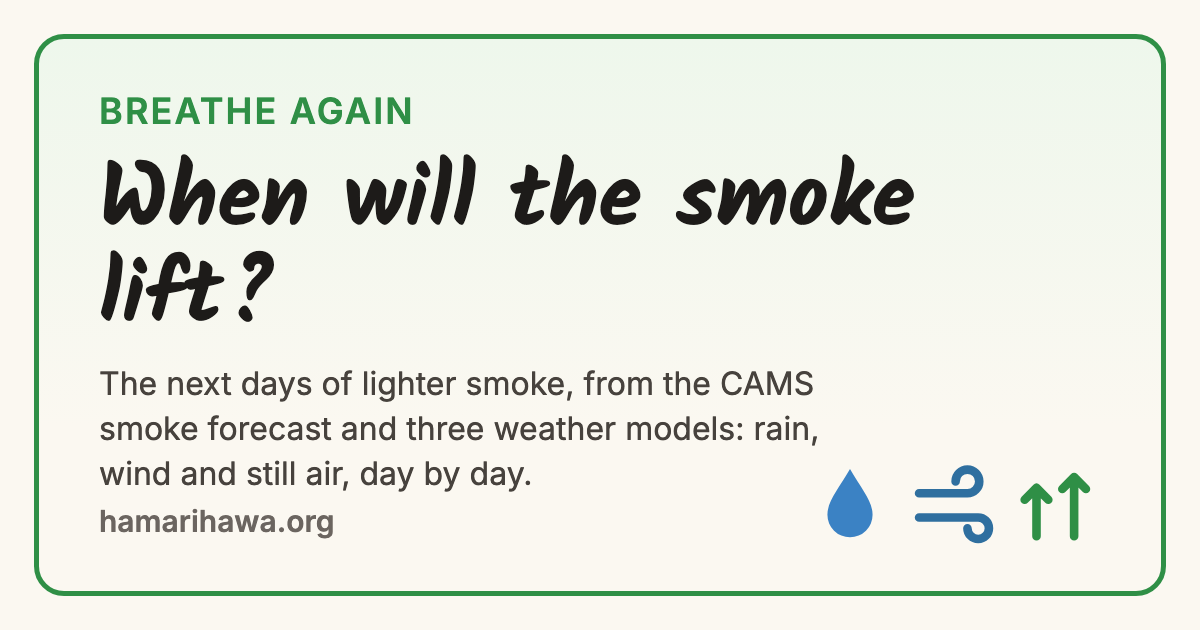
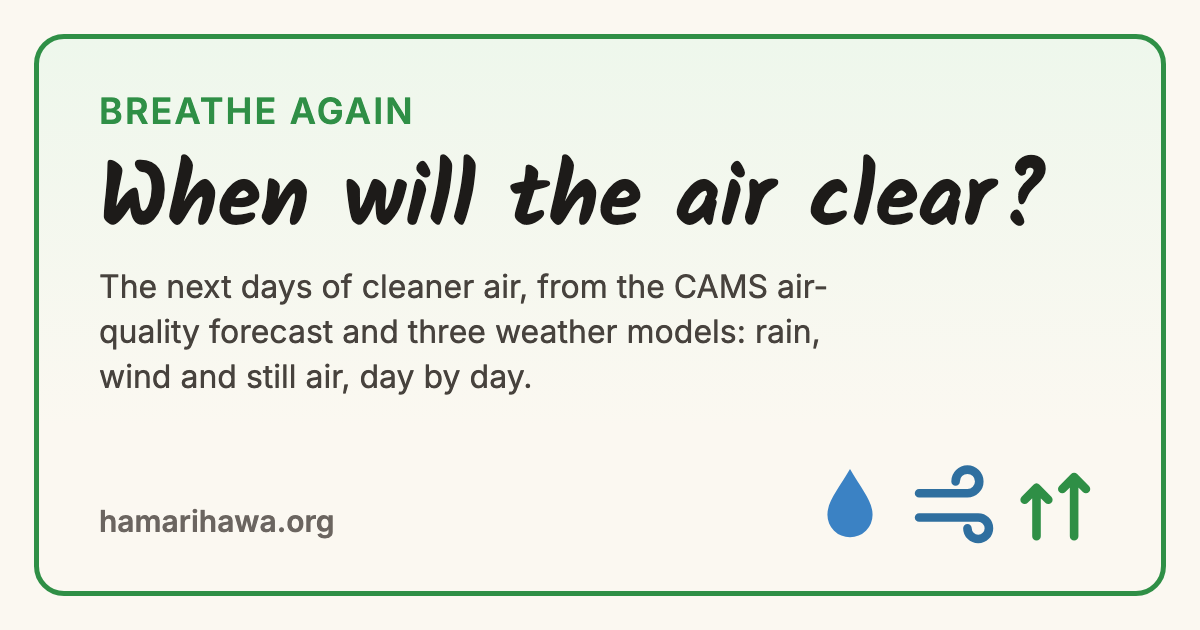
Breathe again: neutral air-quality wording, like a weather forecast
The page above already answers where the smoke comes from; the widget is a
forecast for the air, so its words now hold in every city and season:
pollution / air quality (آلودگی، فضائی معیار; प्रदूषण, वायु गुणवत्ता) instead of
smoke, "Already fairly clean" instead of "Already light". Dust and still-air
lines keep their specific words. Share-link previews and pictures to match
(?v=3).

diff --git a/site/public/breathe.js b/site/public/breathe.js
@@ -1,7 +1,8 @@
 // "Breathe again" on a city page (/air/<city>/; markup in site/src/citypage.js): when the air should next get
 // lighter, for the next 10 days. Smog cities rarely reach safe air, but rain, strong wind and a deep, breezy
-// afternoon mixing layer give them a day or two of lighter smoke; this finds the next such break. "Smoke" in the wording is the whole of CAMS's PM2.5
-// (fires, traffic, industry, kilns, dust), so it keeps working after the burning season, all winter.
+// afternoon mixing layer give them a day or two of cleaner air; this finds the next such break. It reads like a weather forecast for air quality, so its
+// words are neutral (pollution, air quality), right for every city and season: the page above it answers
+// where the smoke comes from. The numbers are all of CAMS's PM2.5 (fires, traffic, industry, kilns, dust).
 //
 // Two sources, both requested from the visitor's browser (the Worker never calls Open-Meteo):
 // - Smoke: the Copernicus CAMS PM2.5 forecast (about 4 days ahead). CAMS reads low in winter, so a day is
@@ -35,69 +36,69 @@
   const T = {
     en: {
       wait: "Reading the weather models…", fail: "The forecast could not be loaded just now.",
-      now: "Today", tomorrow: "Tomorrow", inDays: (d) => `In ${d} days`, maybe: (d) => (d === 1 ? "Maybe tomorrow" : `Maybe in ${d} days`), none: "Not in the next 10 days", light: "Already light",
+      now: "Today", tomorrow: "Tomorrow", inDays: (d) => `In ${d} days`, maybe: (d) => (d === 1 ? "Maybe tomorrow" : `Maybe in ${d} days`), none: "Not in the next 10 days", light: "Already fairly clean",
       today: "Today", tmw: "Tomorrow", and: (a, b) => `${a} and ${b.replace(/^Tomorrow/, "tomorrow")}`, to: (a, b) => `${a} to ${b.replace(/^Tomorrow/, "tomorrow")}`,
-      less: (p) => `about ${p}% less smoke than the past 7 days`, half: "about half the smoke of the past 7 days",
+      less: (p) => `about ${p}% less pollution than the past 7 days`, half: "about half the pollution of the past 7 days",
       spanLess: (s, x) => `${s}: ${x}.`, spanMaybe: (s) => `${s} could bring lighter air.`,
-      why: { rain: (m, n, mm) => `Rain in ${m} of ${n} weather models, about ${mm} mm.`, wind: (k) => `Wind up to ${k} km/h.`, mix: "Breezy afternoons lift and spread the smoke.", none: "The smoke model expects it; the weather shows no single clear cause." },
-      back: (d) => `Smoke starts building up again from ${d}.`, still: (d) => `Still air from ${d} may trap smoke near the ground.`,
-      maybeNote: "This is past the smoke forecast's 4 days, so it comes from the weather alone and is less certain.",
-      noneWhy: "No weather model shows rain or strong wind for the next 10 days.", lighterOnly: (d) => `${d} should be a little lighter, but not a real break.`, noneStill: (d) => `Still air from ${d} may trap smoke near the ground.`,
-      lightTxt: (N) => `The smoke model has kept ${N}'s air fairly light this past week.`,
-      legend: { brk: "break", lighter: "a little lighter", same: "about the same", worse: "smokier", base: "past 7 days" },
-      airLbl: "Smoke forecast", wxLbl: "Weather only",
-      outlook: (parts) => `After that, from the weather alone: ${parts.join("; ")}.`, outlook0: (parts) => `Past the smoke forecast, from the weather alone: ${parts.join("; ")}.`, later: (list) => `Another possible break: ${list}.`,
-      ol: { dust: (s) => `${s}, strong dry wind may raise dust`, build: (s) => `${s}, still air, so smoke likely builds up`, flat: (s) => `${s}, about the same`, maybe: (s, c) => `${s}, ${c} may bring lighter air` },
+      why: { rain: (m, n, mm) => `Rain in ${m} of ${n} weather models, about ${mm} mm.`, wind: (k) => `Wind up to ${k} km/h.`, mix: "Breezy afternoons lift and spread the pollution.", none: "The air-quality model expects it; the weather shows no single clear cause." },
+      back: (d) => `Pollution starts building up again from ${d}.`, still: (d) => `Still air from ${d} may trap pollution near the ground.`,
+      maybeNote: "This is past the air-quality forecast's 4 days, so it comes from the weather alone and is less certain.",
+      noneWhy: "No weather model shows rain or strong wind for the next 10 days.", lighterOnly: (d) => `${d} should be a little lighter, but not a real break.`, noneStill: (d) => `Still air from ${d} may trap pollution near the ground.`,
+      lightTxt: (N) => `The air-quality model has kept ${N}'s pollution fairly low this past week.`,
+      legend: { brk: "break", lighter: "a little lighter", same: "about the same", worse: "more polluted", base: "past 7 days" },
+      airLbl: "Air-quality forecast", wxLbl: "Weather only",
+      outlook: (parts) => `After that, from the weather alone: ${parts.join("; ")}.`, outlook0: (parts) => `Past the air-quality forecast, from the weather alone: ${parts.join("; ")}.`, later: (list) => `Another possible break: ${list}.`,
+      ol: { dust: (s) => `${s}, strong dry wind may raise dust`, build: (s) => `${s}, still air, so pollution likely builds up`, flat: (s) => `${s}, about the same`, maybe: (s, c) => `${s}, ${c} may bring lighter air` },
       olCause: { rain: "rain", wind: "strong wind", mix: "breezy afternoons" }, olKey: "outlook from the weather",
       icon: { rain: "rain", wind: "strong wind", mix: "breezy, well mixed", still: "still air", dust: "dusty wind" },
       share: "Share picture", wa: "WhatsApp", copy: "Copy link", copied: "Link copied", saved: "Picture saved",
       q: (N) => `When can ${N} breathe again?`,
-      src: "Smoke: Copernicus CAMS model via Open-Meteo, compared with its own past 7 days (it reads low in winter, so this shows the change, not the level). Weather: ECMWF, GFS and ICON models via Open-Meteo; mixing layer from GFS.",
-      imgSrc: "Smoke: CAMS forecast vs its past 7 days. Weather: ECMWF, GFS, ICON.",
+      src: "Air quality: PM2.5 from the Copernicus CAMS model via Open-Meteo, compared with its own past 7 days (it reads low in winter, so this shows the change, not the level). Weather: ECMWF, GFS and ICON models via Open-Meteo; mixing layer from GFS.",
+      imgSrc: "Air quality (PM2.5): CAMS forecast vs its past 7 days. Weather: ECMWF, GFS, ICON.",
     },
     ur: {
       wait: "موسمی ماڈل دیکھے جا رہے ہیں…", fail: "پیش گوئی اس وقت نہیں مل سکی۔",
-      now: "آج", tomorrow: "کل", inDays: (d) => `${d} دن میں`, maybe: (d) => (d === 1 ? "شاید کل" : `شاید ${d} دن میں`), none: "اگلے 10 دن میں نہیں", light: "ہوا پہلے ہی ہلکی",
+      now: "آج", tomorrow: "کل", inDays: (d) => `${d} دن میں`, maybe: (d) => (d === 1 ? "شاید کل" : `شاید ${d} دن میں`), none: "اگلے 10 دن میں نہیں", light: "ہوا پہلے ہی کافی صاف",
       today: "آج", tmw: "کل", and: (a, b) => `${a} اور ${b}`, to: (a, b) => `${a} سے ${b} تک`,
-      less: (p) => `پچھلے 7 دنوں سے لگ بھگ ${p} فیصد کم دھواں`, half: "پچھلے 7 دنوں کے مقابلے میں لگ بھگ آدھا دھواں",
+      less: (p) => `پچھلے 7 دنوں سے لگ بھگ ${p} فیصد کم آلودگی`, half: "پچھلے 7 دنوں کے مقابلے میں لگ بھگ آدھی آلودگی",
       spanLess: (s, x) => `${s}: ${x}۔`, spanMaybe: (s) => `${s} کو ہوا کچھ ہلکی ہو سکتی ہے۔`,
-      why: { rain: (m, n, mm) => `${n} میں سے ${m} موسمی ماڈل بارش دکھا رہے ہیں، لگ بھگ ${mm} ملی میٹر۔`, wind: (k) => `ہوا ${k} کلومیٹر فی گھنٹہ تک چلے گی۔`, mix: "دوپہر کی ہوا دھوئیں کو اوپر اٹھا کر بکھیر دے گی۔", none: "دھوئیں کا ماڈل یہی بتاتا ہے، اگرچہ موسم میں کوئی ایک واضح وجہ نظر نہیں آتی۔" },
-      back: (d) => `${d} سے دھواں پھر بڑھنے لگے گا۔`, still: (d) => `${d} سے تھمی ہوا دھوئیں کو زمین کے قریب روک سکتی ہے۔`,
-      maybeNote: "یہ دھوئیں کی 4 دن کی پیش گوئی سے آگے ہے، اس لیے صرف موسم کی بنیاد پر ہے اور اتنا یقینی نہیں۔",
-      noneWhy: "اگلے 10 دنوں میں کسی موسمی ماڈل میں نہ بارش ہے نہ تیز ہوا۔", lighterOnly: (d) => `${d} ہوا کچھ ہلکی رہے گی، مگر کوئی خاص مہلت نہیں۔`, noneStill: (d) => `${d} سے تھمی ہوا دھوئیں کو زمین کے قریب روک سکتی ہے۔`,
-      lightTxt: (N) => `دھوئیں کے ماڈل کے مطابق پچھلے ہفتے ${N} کی ہوا کافی ہلکی رہی ہے۔`,
-      legend: { brk: "مہلت", lighter: "کچھ ہلکی", same: "تقریباً ویسی ہی", worse: "زیادہ دھواں", base: "پچھلے 7 دن" },
-      airLbl: "دھوئیں کی پیش گوئی", wxLbl: "صرف موسم",
-      outlook: (parts) => `اس کے بعد، صرف موسم کی بنیاد پر: ${parts.join("؛ ")}۔`, outlook0: (parts) => `دھوئیں کی پیش گوئی سے آگے، صرف موسم کی بنیاد پر: ${parts.join("؛ ")}۔`, later: (list) => `ایک اور ممکنہ مہلت: ${list}۔`,
-      ol: { dust: (s) => `${s} تیز خشک ہوا سے گرد اڑنے کا امکان`, build: (s) => `${s} تھمی ہوا، دھواں بڑھنے کا امکان`, flat: (s) => `${s} تقریباً ویسا ہی`, maybe: (s, c) => `${s} ${c} سے ہوا کچھ ہلکی ہو سکتی ہے` },
+      why: { rain: (m, n, mm) => `${n} میں سے ${m} موسمی ماڈل بارش دکھا رہے ہیں، لگ بھگ ${mm} ملی میٹر۔`, wind: (k) => `ہوا ${k} کلومیٹر فی گھنٹہ تک چلے گی۔`, mix: "دوپہر کی ہوا آلودگی کو اوپر اٹھا کر بکھیر دے گی۔", none: "فضائی معیار کا ماڈل یہی بتاتا ہے، اگرچہ موسم میں کوئی ایک واضح وجہ نظر نہیں آتی۔" },
+      back: (d) => `${d} سے آلودگی پھر بڑھنے لگے گی۔`, still: (d) => `${d} سے تھمی ہوا آلودگی کو زمین کے قریب روک سکتی ہے۔`,
+      maybeNote: "یہ فضائی معیار کی 4 دن کی پیش گوئی سے آگے ہے، اس لیے صرف موسم کی بنیاد پر ہے اور اتنا یقینی نہیں۔",
+      noneWhy: "اگلے 10 دنوں میں کسی موسمی ماڈل میں نہ بارش ہے نہ تیز ہوا۔", lighterOnly: (d) => `${d} ہوا کچھ ہلکی رہے گی، مگر کوئی خاص مہلت نہیں۔`, noneStill: (d) => `${d} سے تھمی ہوا آلودگی کو زمین کے قریب روک سکتی ہے۔`,
+      lightTxt: (N) => `فضائی معیار کے ماڈل کے مطابق پچھلے ہفتے ${N} میں آلودگی کافی کم رہی ہے۔`,
+      legend: { brk: "مہلت", lighter: "کچھ ہلکی", same: "تقریباً ویسی ہی", worse: "زیادہ آلودگی", base: "پچھلے 7 دن" },
+      airLbl: "فضائی معیار کی پیش گوئی", wxLbl: "صرف موسم",
+      outlook: (parts) => `اس کے بعد، صرف موسم کی بنیاد پر: ${parts.join("؛ ")}۔`, outlook0: (parts) => `فضائی معیار کی پیش گوئی سے آگے، صرف موسم کی بنیاد پر: ${parts.join("؛ ")}۔`, later: (list) => `ایک اور ممکنہ مہلت: ${list}۔`,
+      ol: { dust: (s) => `${s} تیز خشک ہوا سے گرد اڑنے کا امکان`, build: (s) => `${s} تھمی ہوا، آلودگی بڑھنے کا امکان`, flat: (s) => `${s} تقریباً ویسا ہی`, maybe: (s, c) => `${s} ${c} سے ہوا کچھ ہلکی ہو سکتی ہے` },
       olCause: { rain: "بارش", wind: "تیز ہوا", mix: "ہوا دار دوپہر" }, olKey: "موسم کی بنیاد پر اندازہ",
       icon: { rain: "بارش", wind: "تیز ہوا", mix: "ہوا دار دوپہر", still: "تھمی ہوا", dust: "گرد آلود ہوا" },
       share: "تصویر شیئر کریں", wa: "واٹس ایپ", copy: "لنک کاپی کریں", copied: "لنک کاپی ہو گیا", saved: "تصویر محفوظ ہو گئی",
       q: (N) => `${N} میں سکھ کا سانس کب ملے گا؟`,
-      src: "دھواں: کوپرنیکس CAMS ماڈل، اوپن میٹیو کے ذریعے، اپنے ہی پچھلے 7 دنوں سے موازنہ (سردیوں میں یہ کم بتاتا ہے، اس لیے یہاں سطح نہیں، تبدیلی دکھائی گئی ہے)۔ موسم: ECMWF، GFS اور ICON ماڈل، اوپن میٹیو کے ذریعے؛ ہوا کی ملاوٹ کی تہہ GFS سے۔",
-      imgSrc: "دھواں: CAMS پیش گوئی، پچھلے 7 دنوں کے مقابلے میں۔ موسم: ECMWF، GFS، ICON۔",
+      src: "فضائی معیار: PM2.5، کوپرنیکس CAMS ماڈل، اوپن میٹیو کے ذریعے، اپنے ہی پچھلے 7 دنوں سے موازنہ (سردیوں میں یہ کم بتاتا ہے، اس لیے یہاں سطح نہیں، تبدیلی دکھائی گئی ہے)۔ موسم: ECMWF، GFS اور ICON ماڈل، اوپن میٹیو کے ذریعے؛ ہوا کی ملاوٹ کی تہہ GFS سے۔",
+      imgSrc: "فضائی معیار (PM2.5): CAMS پیش گوئی، پچھلے 7 دنوں کے مقابلے میں۔ موسم: ECMWF، GFS، ICON۔",
     },
     hi: {
       wait: "मौसम के मॉडल पढ़े जा रहे हैं…", fail: "अनुमान अभी नहीं मिल सका।",
-      now: "आज", tomorrow: "कल", inDays: (d) => `${d} दिन में`, maybe: (d) => (d === 1 ? "शायद कल" : `शायद ${d} दिन में`), none: "अगले 10 दिन में नहीं", light: "हवा पहले से हल्की",
+      now: "आज", tomorrow: "कल", inDays: (d) => `${d} दिन में`, maybe: (d) => (d === 1 ? "शायद कल" : `शायद ${d} दिन में`), none: "अगले 10 दिन में नहीं", light: "हवा पहले से काफ़ी साफ़",
       today: "आज", tmw: "कल", and: (a, b) => `${a} और ${b}`, to: (a, b) => `${a} से ${b} तक`,
-      less: (p) => `पिछले 7 दिनों से लगभग ${p}% कम धुआँ`, half: "पिछले 7 दिनों के मुक़ाबले लगभग आधा धुआँ",
+      less: (p) => `पिछले 7 दिनों से लगभग ${p}% कम प्रदूषण`, half: "पिछले 7 दिनों के मुक़ाबले लगभग आधा प्रदूषण",
       spanLess: (s, x) => `${s}: ${x}।`, spanMaybe: (s) => `${s} को हवा कुछ हल्की हो सकती है।`,
-      why: { rain: (m, n, mm) => `${n} में से ${m} मौसम मॉडल बारिश दिखा रहे हैं, लगभग ${mm} मिमी।`, wind: (k) => `हवा ${k} किमी/घंटा तक चलेगी।`, mix: "दोपहर की हवा धुएँ को ऊपर उठाकर बिखेर देगी।", none: "धुएँ का मॉडल यही बताता है, हालाँकि मौसम में कोई एक साफ़ वजह नहीं दिखती।" },
-      back: (d) => `${d} से धुआँ फिर बढ़ने लगेगा।`, still: (d) => `${d} से थमी हवा धुएँ को ज़मीन के पास रोक सकती है।`,
-      maybeNote: "यह धुएँ के 4 दिन के अनुमान से आगे है, इसलिए सिर्फ़ मौसम पर आधारित है और उतना पक्का नहीं।",
-      noneWhy: "अगले 10 दिनों में किसी मौसम मॉडल में न बारिश है न तेज़ हवा।", lighterOnly: (d) => `${d} हवा कुछ हल्की रहेगी, पर कोई ख़ास राहत नहीं।`, noneStill: (d) => `${d} से थमी हवा धुएँ को ज़मीन के पास रोक सकती है।`,
-      lightTxt: (N) => `धुएँ के मॉडल के मुताबिक़ पिछले हफ़्ते ${N} की हवा काफ़ी हल्की रही है।`,
-      legend: { brk: "राहत", lighter: "कुछ हल्की", same: "लगभग वैसी ही", worse: "ज़्यादा धुआँ", base: "पिछले 7 दिन" },
-      airLbl: "धुएँ का अनुमान", wxLbl: "सिर्फ़ मौसम",
-      outlook: (parts) => `उसके बाद, सिर्फ़ मौसम के आधार पर: ${parts.join("; ")}।`, outlook0: (parts) => `धुएँ के अनुमान से आगे, सिर्फ़ मौसम के आधार पर: ${parts.join("; ")}।`, later: (list) => `एक और संभावित राहत: ${list}।`,
-      ol: { dust: (s) => `${s} तेज़ सूखी हवा से धूल उड़ने की आशंका`, build: (s) => `${s} थमी हवा, धुआँ बढ़ने की आशंका`, flat: (s) => `${s} लगभग वैसा ही`, maybe: (s, c) => `${s} ${c} से हवा कुछ हल्की हो सकती है` },
+      why: { rain: (m, n, mm) => `${n} में से ${m} मौसम मॉडल बारिश दिखा रहे हैं, लगभग ${mm} मिमी।`, wind: (k) => `हवा ${k} किमी/घंटा तक चलेगी।`, mix: "दोपहर की हवा प्रदूषण को ऊपर उठाकर बिखेर देगी।", none: "वायु गुणवत्ता का मॉडल यही बताता है, हालाँकि मौसम में कोई एक साफ़ वजह नहीं दिखती।" },
+      back: (d) => `${d} से प्रदूषण फिर बढ़ने लगेगा।`, still: (d) => `${d} से थमी हवा प्रदूषण को ज़मीन के पास रोक सकती है।`,
+      maybeNote: "यह वायु गुणवत्ता के 4 दिन के अनुमान से आगे है, इसलिए सिर्फ़ मौसम पर आधारित है और उतना पक्का नहीं।",
+      noneWhy: "अगले 10 दिनों में किसी मौसम मॉडल में न बारिश है न तेज़ हवा।", lighterOnly: (d) => `${d} हवा कुछ हल्की रहेगी, पर कोई ख़ास राहत नहीं।`, noneStill: (d) => `${d} से थमी हवा प्रदूषण को ज़मीन के पास रोक सकती है।`,
+      lightTxt: (N) => `वायु गुणवत्ता के मॉडल के मुताबिक़ पिछले हफ़्ते ${N} में प्रदूषण काफ़ी कम रहा है।`,
+      legend: { brk: "राहत", lighter: "कुछ हल्की", same: "लगभग वैसी ही", worse: "ज़्यादा प्रदूषण", base: "पिछले 7 दिन" },
+      airLbl: "वायु गुणवत्ता का अनुमान", wxLbl: "सिर्फ़ मौसम",
+      outlook: (parts) => `उसके बाद, सिर्फ़ मौसम के आधार पर: ${parts.join("; ")}।`, outlook0: (parts) => `वायु गुणवत्ता के अनुमान से आगे, सिर्फ़ मौसम के आधार पर: ${parts.join("; ")}।`, later: (list) => `एक और संभावित राहत: ${list}।`,
+      ol: { dust: (s) => `${s} तेज़ सूखी हवा से धूल उड़ने की आशंका`, build: (s) => `${s} थमी हवा, प्रदूषण बढ़ने की आशंका`, flat: (s) => `${s} लगभग वैसा ही`, maybe: (s, c) => `${s} ${c} से हवा कुछ हल्की हो सकती है` },
       olCause: { rain: "बारिश", wind: "तेज़ हवा", mix: "हवादार दोपहर" }, olKey: "मौसम के आधार पर अंदाज़ा",
       icon: { rain: "बारिश", wind: "तेज़ हवा", mix: "हवादार दोपहर", still: "थमी हवा", dust: "धूल भरी हवा" },
       share: "तस्वीर शेयर करें", wa: "व्हाट्सऐप", copy: "लिंक कॉपी करें", copied: "लिंक कॉपी हो गया", saved: "तस्वीर सेव हो गई",
       q: (N) => `${N} में चैन की साँस कब मिलेगी?`,
-      src: "धुआँ: कोपरनिकस CAMS मॉडल, ओपन-मेटियो से, अपने ही पिछले 7 दिनों से तुलना (सर्दियों में यह कम बताता है, इसलिए यहाँ स्तर नहीं, बदलाव दिखाया गया है)। मौसम: ECMWF, GFS और ICON मॉडल, ओपन-मेटियो से; मिक्सिंग लेयर GFS से।",
-      imgSrc: "धुआँ: CAMS अनुमान, पिछले 7 दिनों के मुक़ाबले। मौसम: ECMWF, GFS, ICON।",
+      src: "वायु गुणवत्ता: PM2.5, कोपरनिकस CAMS मॉडल, ओपन-मेटियो से, अपने ही पिछले 7 दिनों से तुलना (सर्दियों में यह कम बताता है, इसलिए यहाँ स्तर नहीं, बदलाव दिखाया गया है)। मौसम: ECMWF, GFS और ICON मॉडल, ओपन-मेटियो से; मिक्सिंग लेयर GFS से।",
+      imgSrc: "वायु गुणवत्ता (PM2.5): CAMS अनुमान, पिछले 7 दिनों के मुक़ाबले। मौसम: ECMWF, GFS, ICON।",
     },
   };
 
@@ -272,7 +273,7 @@
     const used = [...new Set(f.days.map((d) => d.wx.cause).filter(Boolean))];
     const stUsed = ["brk", "lighter", "same", "worse"].filter((s) => f.days.some((d) => d.air && d.st === s));
     // The share link has its own path, so its preview says the same as this (see breatheMeta in citypage.js):
-    // only numbers go in it, the start day, days, per cent less smoke, and smoke forecast or weather only.
+    // only numbers go in it, the start day, days, per cent less pollution, and air-quality forecast or weather only.
     const run = f.run, qs = new URLSearchParams();
     if (f.light || !run.length) { qs.set("k", f.light ? "l" : "x"); qs.set("d", f.days[0].k); }
     else { qs.set("d", run[0].k); qs.set("n", run.length); if (run[0].air) qs.set("p", ans.p); qs.set("k", run[0].air ? "a" : "w"); }

diff --git a/site/src/citypage.js b/site/src/citypage.js
@@ -636,22 +636,22 @@ const MON = {
 const BT = {
   en: { q: (N) => `When can ${N} breathe again?`, today: "Today", tmw: "tomorrow", Tmw: "Tomorrow",
     and: (a, b) => `${a} and ${b}`, to: (a, b) => `${a} to ${b}`, day: (w, d, m) => `${w} ${d} ${m}`,
-    less: (s, p) => `${s}: ${p >= 45 && p <= 55 ? "about half the smoke of the past 7 days" : `about ${p}% less smoke than the past 7 days`}.`,
-    maybe: (s) => `${s} could bring lighter air.`, none: "Not in the next 10 days.", light: "The air has been fairly light this past week.",
-    desc: "The next days of lighter smoke, from the CAMS smoke forecast and three weather models (ECMWF, GFS, ICON): rain, wind and still air, day by day.",
-    alt: "Breathe again: when the smoke should next lift" },
+    less: (s, p) => `${s}: ${p >= 45 && p <= 55 ? "about half the pollution of the past 7 days" : `about ${p}% less pollution than the past 7 days`}.`,
+    maybe: (s) => `${s} could bring lighter air.`, none: "Not in the next 10 days.", light: "Pollution has been fairly low this past week.",
+    desc: "The next days of cleaner air, from the CAMS air-quality forecast and three weather models (ECMWF, GFS, ICON): rain, wind and still air, day by day.",
+    alt: "Breathe again: when the air should next clear" },
   ur: { q: (N) => `${N} میں سکھ کا سانس کب ملے گا؟`, today: "آج", tmw: "کل", Tmw: "کل",
     and: (a, b) => `${a} اور ${b}`, to: (a, b) => `${a} سے ${b} تک`, day: (w, d, m) => `${w}، ${d} ${m}`,
-    less: (s, p) => `${s}: ${p >= 45 && p <= 55 ? "پچھلے 7 دنوں کے مقابلے میں لگ بھگ آدھا دھواں" : `پچھلے 7 دنوں سے لگ بھگ ${p} فیصد کم دھواں`}۔`,
-    maybe: (s) => `${s} کو ہوا کچھ ہلکی ہو سکتی ہے۔`, none: "اگلے 10 دن میں نہیں۔", light: "پچھلے ہفتے ہوا کافی ہلکی رہی ہے۔",
-    desc: "دھواں کب کم ہو گا: CAMS کی دھوئیں کی پیش گوئی اور تین موسمی ماڈل (ECMWF، GFS، ICON)، بارش، ہوا اور تھمی ہوا، دن بہ دن۔",
-    alt: "سکھ کا سانس: دھواں کب چھٹے گا" },
+    less: (s, p) => `${s}: ${p >= 45 && p <= 55 ? "پچھلے 7 دنوں کے مقابلے میں لگ بھگ آدھی آلودگی" : `پچھلے 7 دنوں سے لگ بھگ ${p} فیصد کم آلودگی`}۔`,
+    maybe: (s) => `${s} کو ہوا کچھ ہلکی ہو سکتی ہے۔`, none: "اگلے 10 دن میں نہیں۔", light: "پچھلے ہفتے آلودگی کافی کم رہی ہے۔",
+    desc: "ہوا کب صاف ہو گی: CAMS کی فضائی معیار کی پیش گوئی اور تین موسمی ماڈل (ECMWF، GFS، ICON)، بارش، ہوا اور تھمی ہوا، دن بہ دن۔",
+    alt: "سکھ کا سانس: ہوا کب صاف ہو گی" },
   hi: { q: (N) => `${N} में चैन की साँस कब मिलेगी?`, today: "आज", tmw: "कल", Tmw: "कल",
     and: (a, b) => `${a} और ${b}`, to: (a, b) => `${a} से ${b} तक`, day: (w, d, m) => `${w}, ${d} ${m}`,
-    less: (s, p) => `${s}: ${p >= 45 && p <= 55 ? "पिछले 7 दिनों के मुक़ाबले लगभग आधा धुआँ" : `पिछले 7 दिनों से लगभग ${p}% कम धुआँ`}।`,
-    maybe: (s) => `${s} को हवा कुछ हल्की हो सकती है।`, none: "अगले 10 दिन में नहीं।", light: "पिछले हफ़्ते हवा काफ़ी हल्की रही है।",
-    desc: "धुआँ कब छँटेगा: CAMS का धुएँ का अनुमान और तीन मौसम मॉडल (ECMWF, GFS, ICON), बारिश, हवा और थमी हवा, दिन-ब-दिन।",
-    alt: "चैन की साँस: धुआँ कब छँटेगा" },
+    less: (s, p) => `${s}: ${p >= 45 && p <= 55 ? "पिछले 7 दिनों के मुक़ाबले लगभग आधा प्रदूषण" : `पिछले 7 दिनों से लगभग ${p}% कम प्रदूषण`}।`,
+    maybe: (s) => `${s} को हवा कुछ हल्की हो सकती है।`, none: "अगले 10 दिन में नहीं।", light: "पिछले हफ़्ते प्रदूषण काफ़ी कम रहा है।",
+    desc: "हवा कब साफ़ होगी: CAMS का वायु गुणवत्ता अनुमान और तीन मौसम मॉडल (ECMWF, GFS, ICON), बारिश, हवा और थमी हवा, दिन-ब-दिन।",
+    alt: "चैन की साँस: हवा कब साफ़ होगी" },
 };
 const ZONE_MIN = { PK: 300, IN: 330 };
 
@@ -681,5 +681,5 @@ export function breatheMeta(c, q, now = Date.now()) {
   }
   // A "none" or "light" link only holds for the day it was made.
   if ((k === "x" || k === "l") && d && dayN(d) !== 0) line = "";
-  return { l, title: line ? `${t.q(N)} ${line}` : t.q(N), desc: t.desc, alt: t.alt, image: `${SITE}/og/breathe-${l}.png?v=2` };
+  return { l, title: line ? `${t.q(N)} ${line}` : t.q(N), desc: t.desc, alt: t.alt, image: `${SITE}/og/breathe-${l}.png?v=3` };
 }

diff --git a/site/src/air.js b/site/src/air.js
@@ -292,7 +292,7 @@ function cityPage(c, data, wind, extra = {}) {
   // Its link preview is this city's own map (scripts/build-og-live.py, served by worker.js).
   return render({ path: `/air/${c.id}/`, title: T.en.title(N), desc: T.en.desc(N, descTxt), body, jsonld,
     ogImage: ogUrl(c.id), ogAlt: `${N}: the last 24 hours of fires within 250 km and the wind`,
-    head: STYLE + AIR_STYLE + CITY_STYLE + LEAFLET_CSS, scripts: '<script src="/city-air.js?v=6" defer></script>\n<script src="/breathe.js?v=5" defer></script>\n' + LEAFLET_JS + NEAR_JS + SHARE_JS + CITY_JS });
+    head: STYLE + AIR_STYLE + CITY_STYLE + LEAFLET_CSS, scripts: '<script src="/city-air.js?v=6" defer></script>\n<script src="/breathe.js?v=6" defer></script>\n' + LEAFLET_JS + NEAR_JS + SHARE_JS + CITY_JS });
 }
 
 function indexPage(data, wind) {
